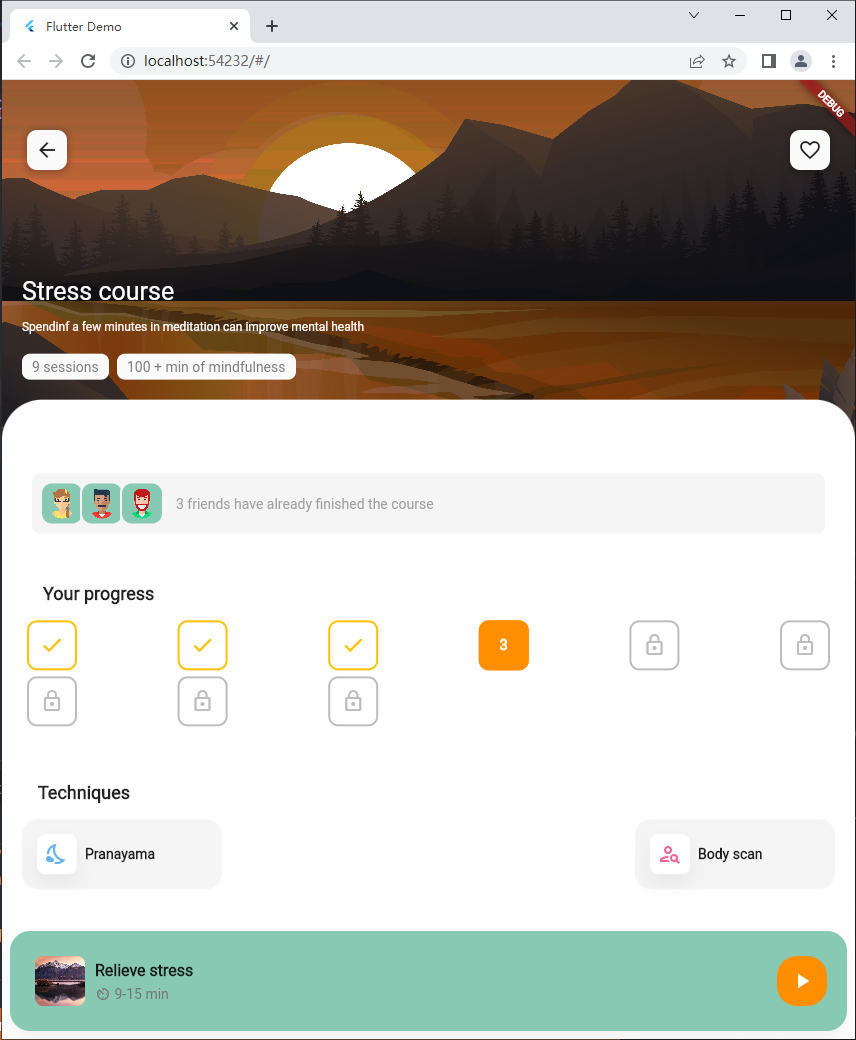
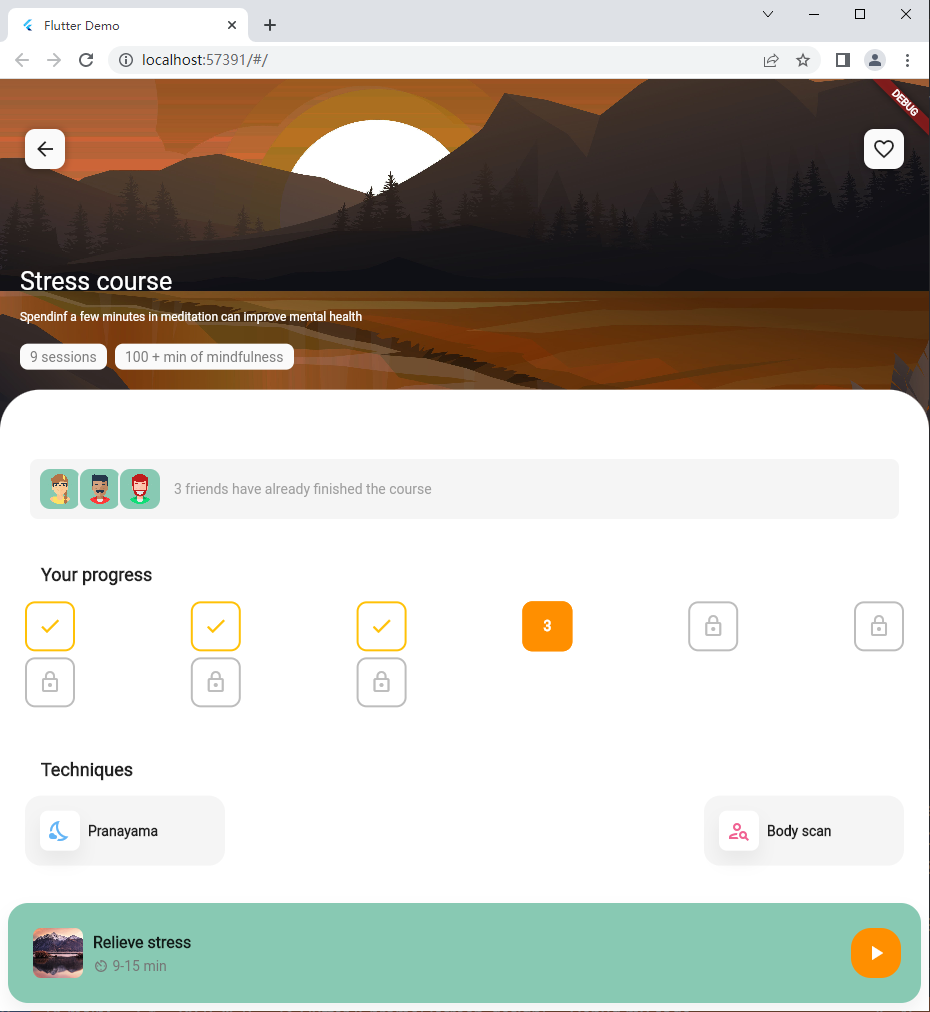
few change

diff --git a/lib/widgets/lower_context/techniques_area.dart b/lib/widgets/lower_context/techniques_area.dart
@@ -19,7 +19,7 @@ class TechniquesArea extends StatelessWidget {
       children: [
         const SubTitle(text: "Techniques"),
         SizedBox(
-          width: screenSize.width - 40,
+          width: screenSize.width - 50,
           child: Row(
             mainAxisAlignment: MainAxisAlignment.spaceBetween,
             children: [
